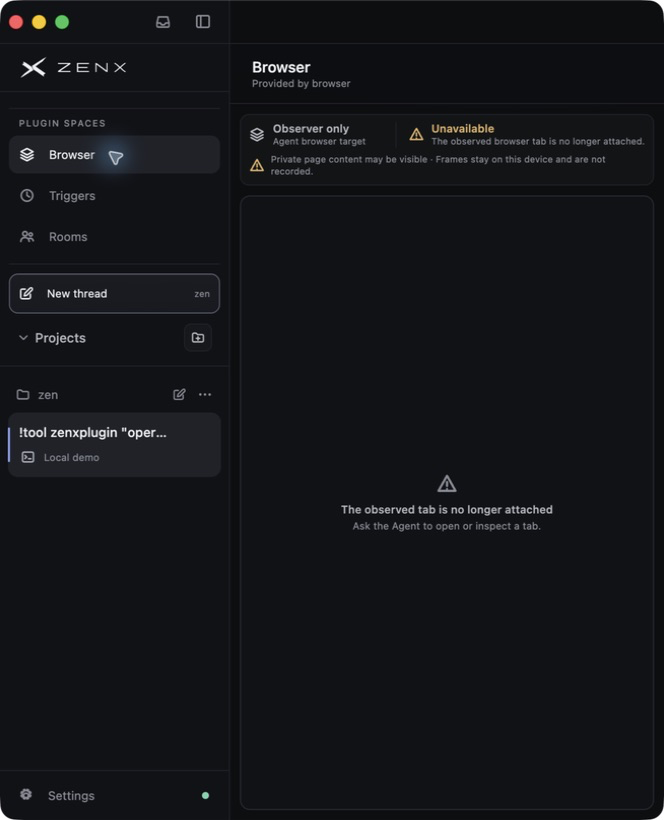
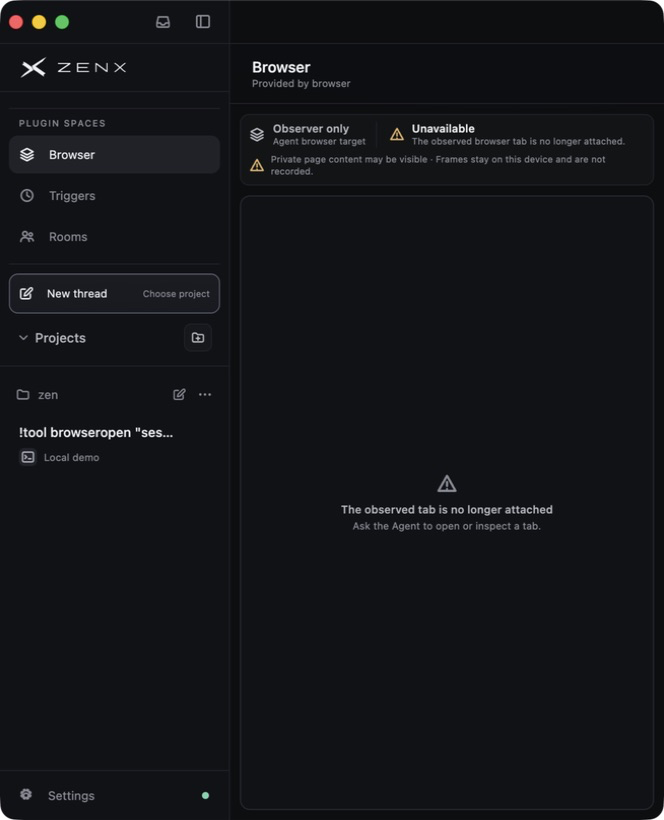
Fix Browser observer zoom readability

diff --git a/apps/zenx/test/browser-live-page.test.ts b/apps/zenx/test/browser-live-page.test.ts
@@ -89,6 +89,57 @@ test("Browser observer gives the live stage the remaining page height", async ()
   assert.doesNotMatch(css, /\.browser-live-stage\s*\{[^}]*aspect-ratio:/su);
 });
 
+test("Browser status reason remains visible at narrow and 200% CSS viewports", async () => {
+  const css = await readFile(
+    new URL("../src/renderer/src/styles.css", import.meta.url),
+    "utf8",
+  );
+  const narrow = css.slice(css.indexOf("@media (max-width: 760px)"));
+  assert.match(
+    narrow,
+    /\.browser-live-status\s*\{[^}]*width:\s*100%;[^}]*max-width:\s*100%;/su,
+  );
+  assert.match(
+    narrow,
+    /\.browser-live-status small\s*\{[^}]*overflow:\s*visible;[^}]*text-overflow:\s*clip;[^}]*white-space:\s*normal;[^}]*overflow-wrap:\s*anywhere;/su,
+  );
+  assert.match(
+    narrow,
+    /\.browser-live-toolbar\s*\{[^}]*grid-template-columns:\s*minmax\(0, auto\) minmax\(0, 1fr\);/su,
+  );
+});
+
+test("Browser failed status text clears 4.5:1 on the composed light toolbar", async () => {
+  const [css, theme] = await Promise.all([
+    readFile(
+      new URL("../src/renderer/src/styles.css", import.meta.url),
+      "utf8",
+    ),
+    readFile(new URL("../src/renderer/src/theme.css", import.meta.url), "utf8"),
+  ]);
+  assert.match(
+    css,
+    /\.browser-live-status\[data-status="failed"\],[\s\S]*?\.browser-live-status\[data-status="unavailable"\]\s*\{[^}]*color:\s*var\(--color-text-primary\);/u,
+  );
+  assert.match(
+    css,
+    /\.browser-live-status\[data-status="failed"\] svg,[\s\S]*?\.browser-live-status\[data-status="unavailable"\] svg\s*\{[^}]*color:\s*var\(--color-status-warning\);/u,
+  );
+
+  const lightTokens = theme.match(
+    /:root\[data-appearance="light"\]\s*\{([\s\S]*?)\n\}/u,
+  )?.[1];
+  assert.ok(lightTokens);
+  const foreground = hexToken(lightTokens, "color-text-primary");
+  const base = hexToken(lightTokens, "color-surface-main");
+  const wash = rgbaToken(lightTokens, "color-surface-wash");
+  const composedToolbar = compositeOver(wash, base);
+  assert.ok(
+    contrastRatio(foreground, composedToolbar) >= 4.5,
+    "failed and unavailable status labels must meet 4.5:1 in light mode",
+  );
+});
+
 test("Browser page updates frames without moving focus or announcing every frame", async () => {
   const dom = new JSDOM(
     '<button id="before">Before</button><div id="root"></div>',
@@ -369,3 +420,65 @@ test("Browser page clears its frame while hidden and resumes with a fresh sequen
   assert.equal(disposals, 2);
   dom.window.close();
 });
+
+type Rgb = readonly [number, number, number];
+type Rgba = readonly [number, number, number, number];
+
+function hexToken(tokens: string, name: string): Rgb {
+  const value = tokens.match(
+    new RegExp(`--${name}:\\s*#([0-9a-f]{6})`, "iu"),
+  )?.[1];
+  assert.ok(value, `missing --${name}`);
+  return [
+    Number.parseInt(value.slice(0, 2), 16),
+    Number.parseInt(value.slice(2, 4), 16),
+    Number.parseInt(value.slice(4, 6), 16),
+  ];
+}
+
+function rgbaToken(tokens: string, name: string): Rgba {
+  const value = tokens.match(
+    new RegExp(
+      `--${name}:\\s*rgb\\((\\d+)\\s+(\\d+)\\s+(\\d+)\\s*\\/\\s*([\\d.]+)%\\)`,
+      "iu",
+    ),
+  );
+  assert.ok(value, `missing --${name}`);
+  return [
+    Number(value[1]),
+    Number(value[2]),
+    Number(value[3]),
+    Number(value[4]) / 100,
+  ];
+}
+
+function compositeOver(foreground: Rgba, background: Rgb): Rgb {
+  return [0, 1, 2].map((channel) =>
+    Math.round(
+      foreground[channel]! * foreground[3] +
+        background[channel]! * (1 - foreground[3]),
+    ),
+  ) as unknown as Rgb;
+}
+
+function contrastRatio(foreground: Rgb, background: Rgb): number {
+  const lighter = Math.max(
+    relativeLuminance(foreground),
+    relativeLuminance(background),
+  );
+  const darker = Math.min(
+    relativeLuminance(foreground),
+    relativeLuminance(background),
+  );
+  return (lighter + 0.05) / (darker + 0.05);
+}
+
+function relativeLuminance([red, green, blue]: Rgb): number {
+  const [r, g, b] = [red, green, blue].map((channel) => {
+    const normalized = channel / 255;
+    return normalized <= 0.04045
+      ? normalized / 12.92
+      : ((normalized + 0.055) / 1.055) ** 2.4;
+  });
+  return 0.2126 * r! + 0.7152 * g! + 0.0722 * b!;
+}

diff --git a/apps/zenx/src/renderer/src/styles.css b/apps/zenx/src/renderer/src/styles.css
@@ -130,6 +130,11 @@
 
 .browser-live-status[data-status="failed"],
 .browser-live-status[data-status="unavailable"] {
+  color: var(--color-text-primary);
+}
+
+.browser-live-status[data-status="failed"] svg,
+.browser-live-status[data-status="unavailable"] svg {
   color: var(--color-status-warning);
 }
 
@@ -226,7 +231,16 @@
   }
 
   .browser-live-status {
+    width: 100%;
+    max-width: 100%;
     justify-self: end;
+  }
+
+  .browser-live-status small {
+    overflow: visible;
+    text-overflow: clip;
+    white-space: normal;
+    overflow-wrap: anywhere;
   }
 }
 
